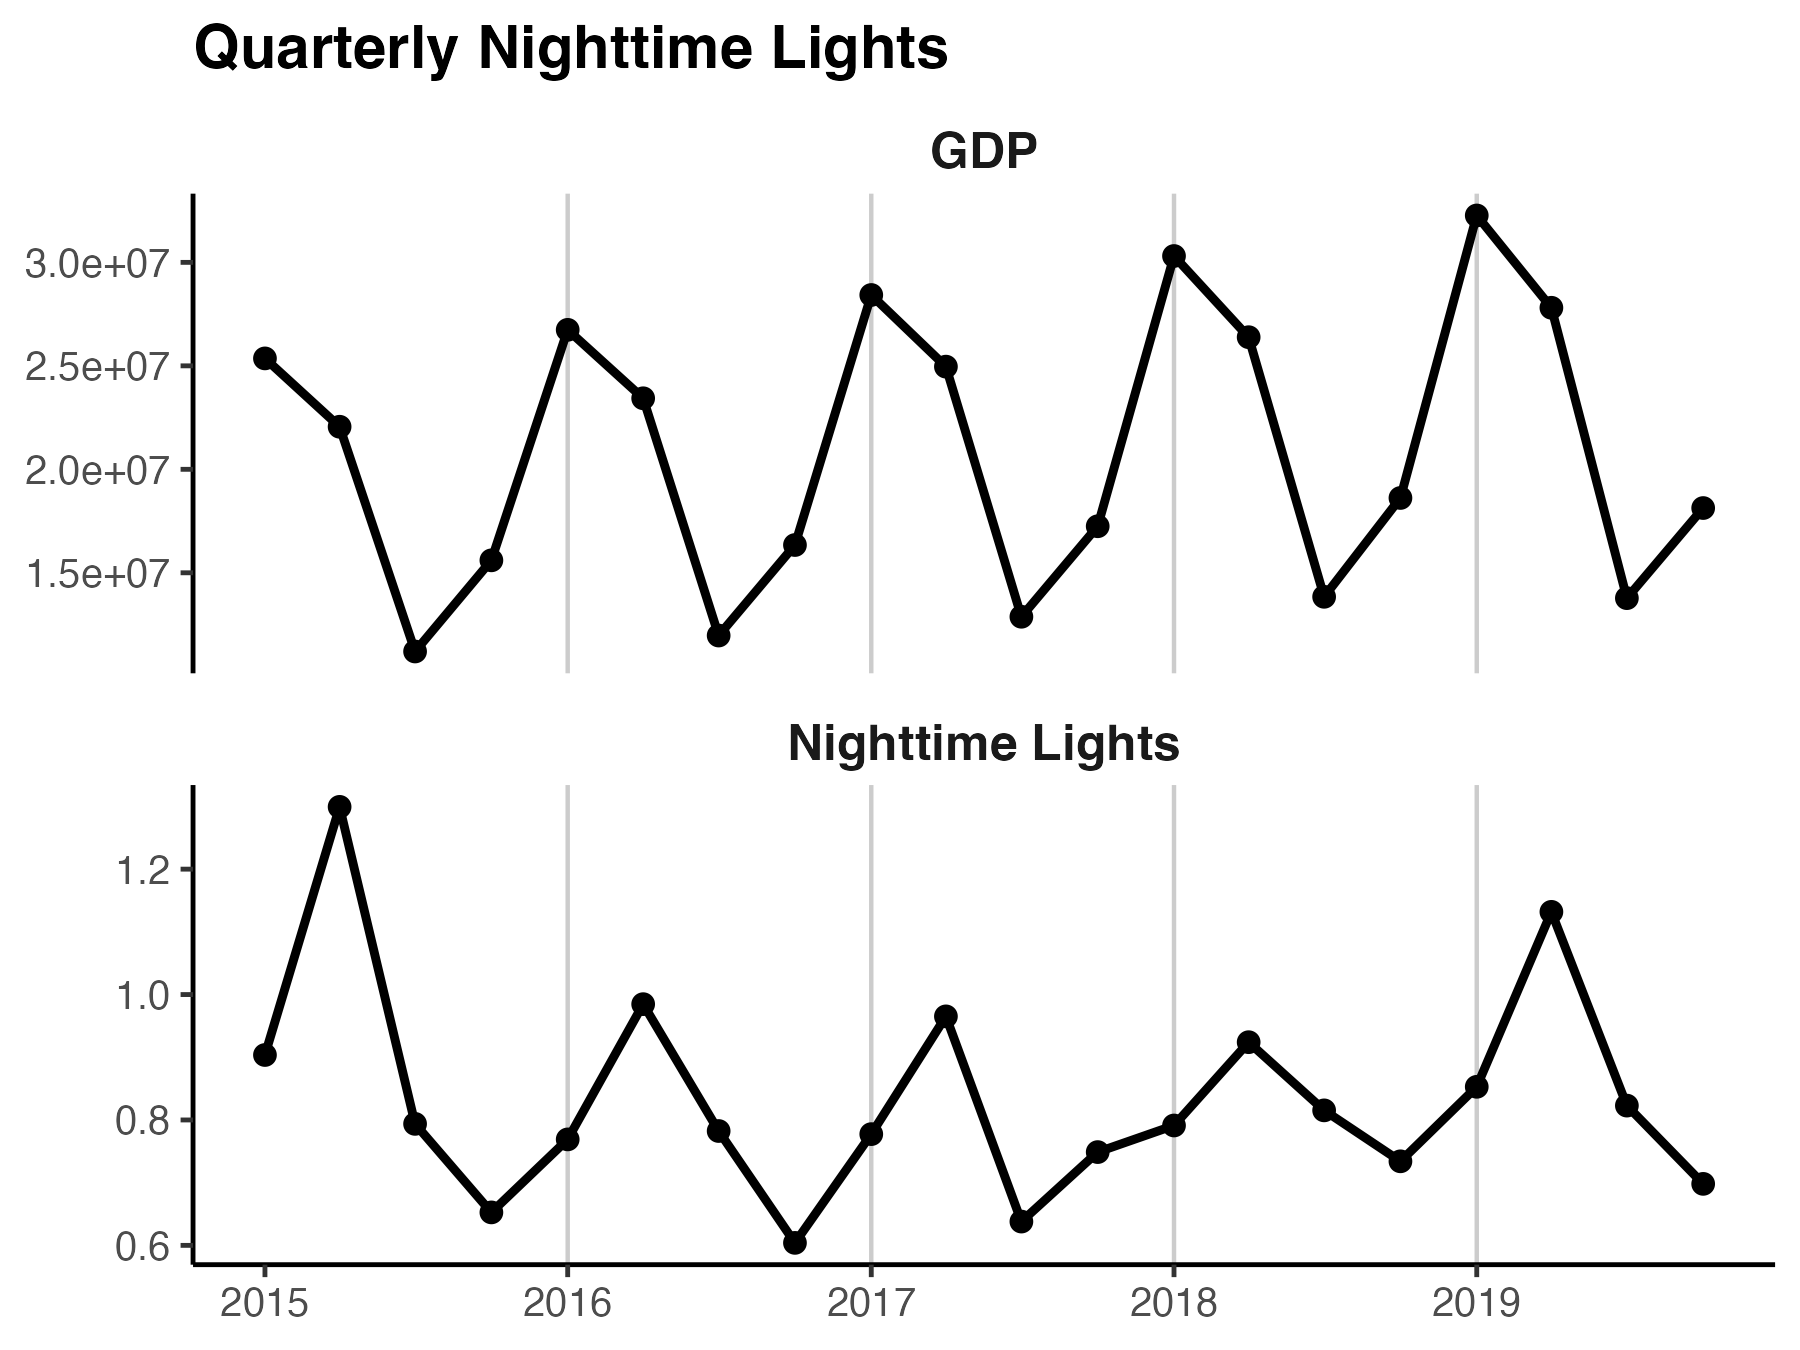
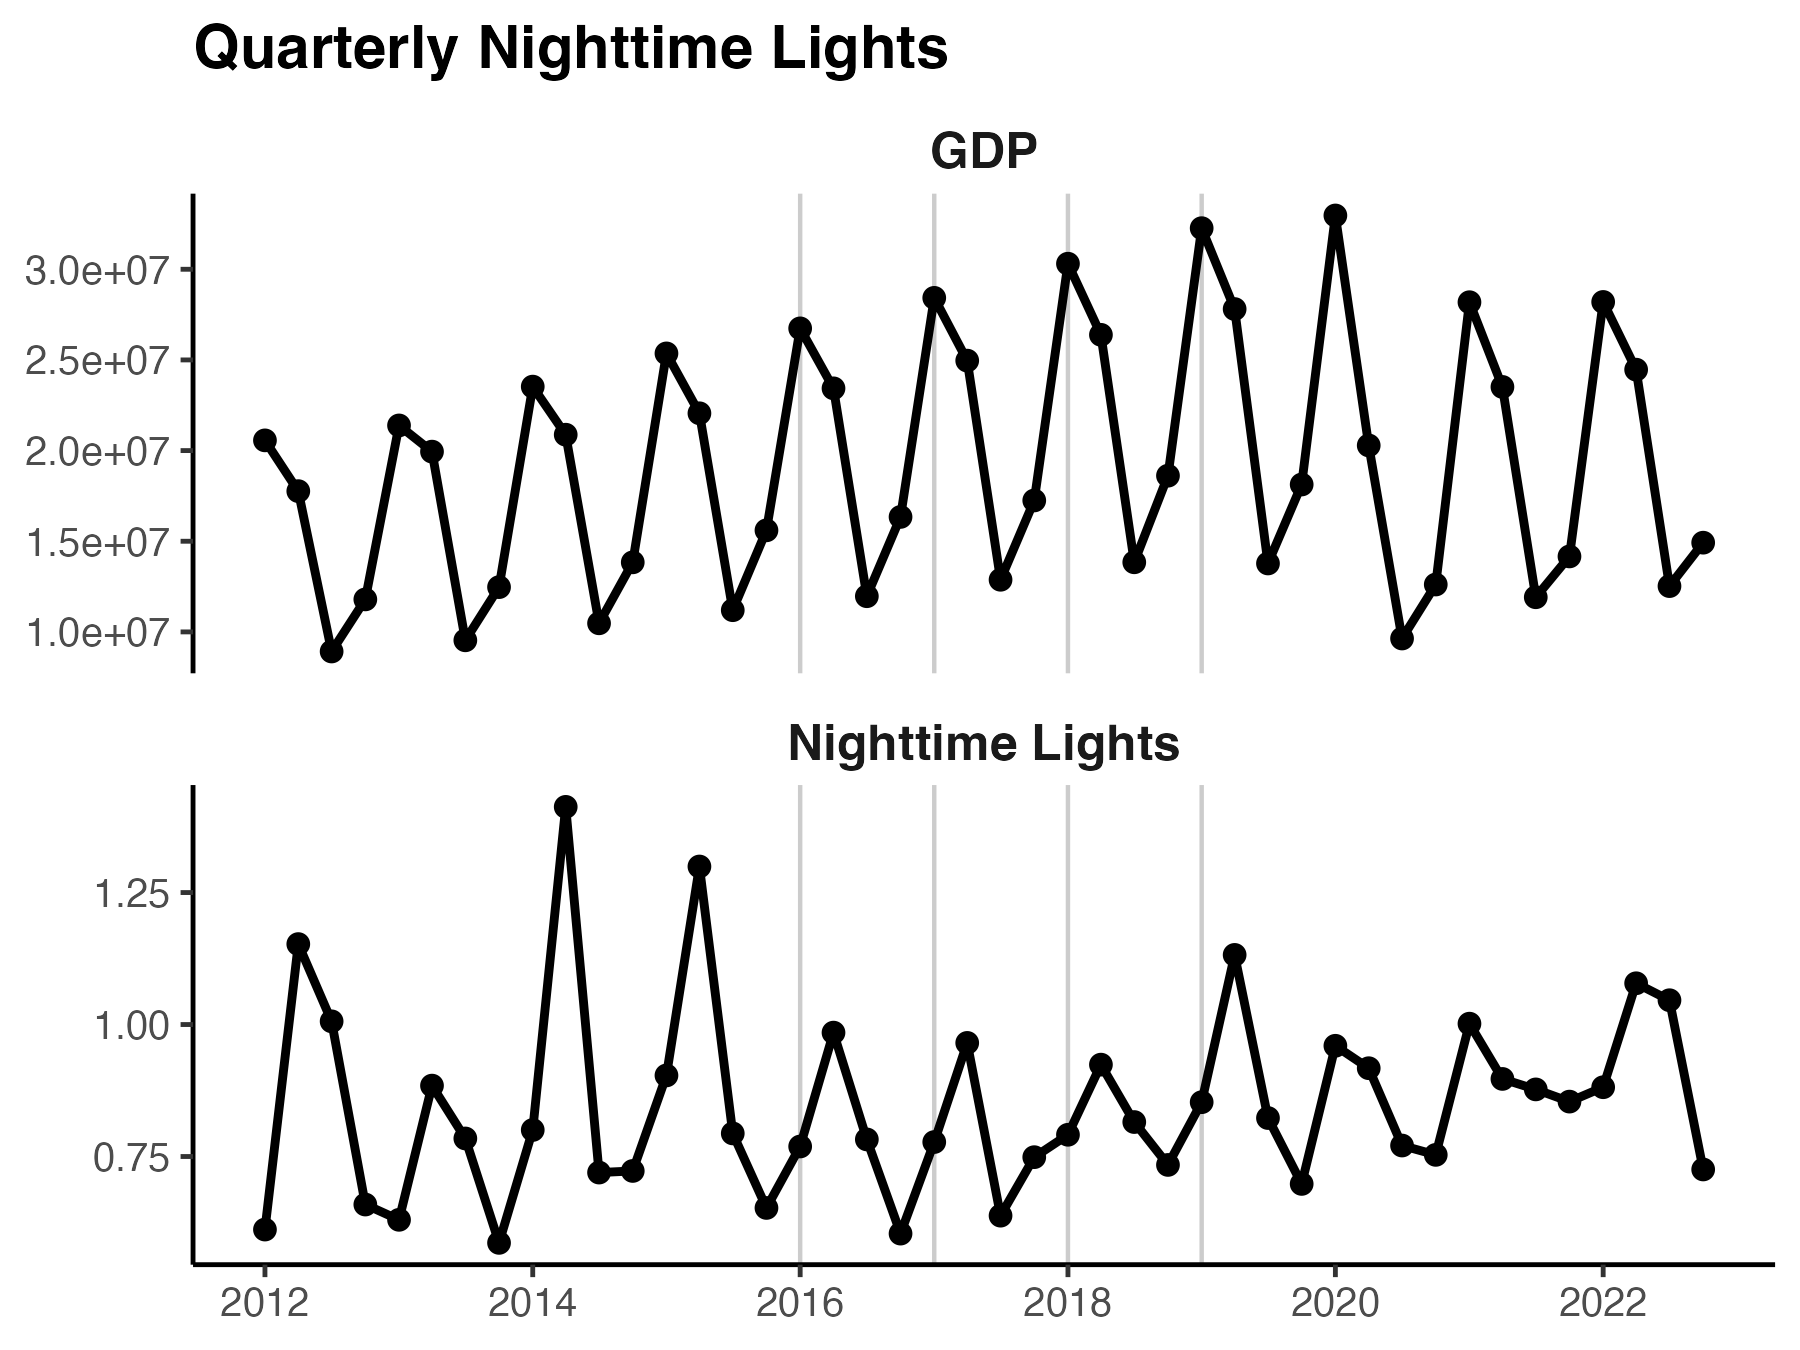
up

diff --git a/reports/figures/reg_gdp_ntl_quarterly.html b/reports/figures/reg_gdp_ntl_quarterly.html
@@ -1,19 +1,24 @@
 
-<table style="text-align:center"><tr><td colspan="3" style="border-bottom: 1px solid black"></td></tr><tr><td style="text-align:left"></td><td colspan="2"><em>Dependent variable:</em></td></tr>
-<tr><td></td><td colspan="2" style="border-bottom: 1px solid black"></td></tr>
-<tr><td style="text-align:left"></td><td>GDP (Billions)</td><td>log(GDP)</td></tr>
-<tr><td style="text-align:left"></td><td>(1)</td><td>(2)</td></tr>
-<tr><td colspan="3" style="border-bottom: 1px solid black"></td></tr><tr><td style="text-align:left">NTL</td><td>0.017<sup>*</sup></td><td></td></tr>
-<tr><td style="text-align:left"></td><td>(0.009)</td><td></td></tr>
-<tr><td style="text-align:left"></td><td></td><td></td></tr>
-<tr><td style="text-align:left">log(NTL)</td><td></td><td>0.822<sup>**</sup></td></tr>
-<tr><td style="text-align:left"></td><td></td><td>(0.375)</td></tr>
-<tr><td style="text-align:left"></td><td></td><td></td></tr>
-<tr><td style="text-align:left">Constant</td><td>0.007</td><td>16.965<sup>***</sup></td></tr>
-<tr><td style="text-align:left"></td><td>(0.007)</td><td>(0.101)</td></tr>
-<tr><td style="text-align:left"></td><td></td><td></td></tr>
-<tr><td colspan="3" style="border-bottom: 1px solid black"></td></tr><tr><td style="text-align:left">Observations</td><td>20</td><td>20</td></tr>
-<tr><td style="text-align:left">R<sup>2</sup></td><td>0.176</td><td>0.211</td></tr>
-<tr><td style="text-align:left">Adjusted R<sup>2</sup></td><td>0.130</td><td>0.167</td></tr>
-<tr><td colspan="3" style="border-bottom: 1px solid black"></td></tr><tr><td style="text-align:left"><em>Note:</em></td><td colspan="2" style="text-align:right"><sup>*</sup>p<0.1; <sup>**</sup>p<0.05; <sup>***</sup>p<0.01</td></tr>
+<table style="text-align:center"><tr><td colspan="5" style="border-bottom: 1px solid black"></td></tr><tr><td style="text-align:left"></td><td colspan="4"><em>Dependent variable:</em></td></tr>
+<tr><td></td><td colspan="4" style="border-bottom: 1px solid black"></td></tr>
+<tr><td style="text-align:left"></td><td>GDP (Billions)</td><td>log(GDP)</td><td>gdp_div</td><td>log(gdp_div)</td></tr>
+<tr><td style="text-align:left"></td><td>(1)</td><td>(2)</td><td>(3)</td><td>(4)</td></tr>
+<tr><td colspan="5" style="border-bottom: 1px solid black"></td></tr><tr><td style="text-align:left">NTL</td><td>11.871<sup>*</sup></td><td></td><td>12.351<sup>**</sup></td><td></td></tr>
+<tr><td style="text-align:left"></td><td>(5.918)</td><td></td><td>(5.728)</td><td></td></tr>
+<tr><td style="text-align:left"></td><td></td><td></td><td></td><td></td></tr>
+<tr><td style="text-align:left">log(NTL)</td><td></td><td>0.604<sup>**</sup></td><td></td><td>0.622<sup>**</sup></td></tr>
+<tr><td style="text-align:left"></td><td></td><td>(0.291)</td><td></td><td>(0.280)</td></tr>
+<tr><td style="text-align:left"></td><td></td><td></td><td></td><td></td></tr>
+<tr><td style="text-align:left">2020 Onwards</td><td></td><td></td><td>-0.315</td><td>-0.024</td></tr>
+<tr><td style="text-align:left"></td><td></td><td></td><td>(2.637)</td><td>(0.143)</td></tr>
+<tr><td style="text-align:left"></td><td></td><td></td><td></td><td></td></tr>
+<tr><td style="text-align:left">Constant</td><td>9.086<sup>*</sup></td><td>3.000<sup>***</sup></td><td>8.686<sup>*</sup></td><td>3.004<sup>***</sup></td></tr>
+<tr><td style="text-align:left"></td><td>(5.062)</td><td>(0.084)</td><td>(4.908)</td><td>(0.082)</td></tr>
+<tr><td style="text-align:left"></td><td></td><td></td><td></td><td></td></tr>
+<tr><td colspan="5" style="border-bottom: 1px solid black"></td></tr><tr><td style="text-align:left">Start Year</td><td>2012</td><td>2012</td><td>2012</td><td>2012</td></tr>
+<tr><td style="text-align:left">End Year</td><td>2020</td><td>2020</td><td>2022</td><td>2022</td></tr>
+<tr><td style="text-align:left">Observations</td><td>36</td><td>36</td><td>44</td><td>44</td></tr>
+<tr><td style="text-align:left">R<sup>2</sup></td><td>0.106</td><td>0.113</td><td>0.103</td><td>0.110</td></tr>
+<tr><td style="text-align:left">Adjusted R<sup>2</sup></td><td>0.080</td><td>0.087</td><td>0.060</td><td>0.066</td></tr>
+<tr><td colspan="5" style="border-bottom: 1px solid black"></td></tr><tr><td style="text-align:left"><em>Note:</em></td><td colspan="4" style="text-align:right"><sup>*</sup>p<0.1; <sup>**</sup>p<0.05; <sup>***</sup>p<0.01</td></tr>
 </table>

diff --git a/notebooks/nighttime-lights/README.md b/notebooks/nighttime-lights/README.md
@@ -317,23 +317,28 @@ Trends in GDP and Nighttime Lights: Percent Change since 2012 (Logged)
 
 Below shows regressions results, regressing GDP on average nighttime lights.
 
-<table style="text-align:center"><tr><td colspan="3" style="border-bottom: 1px solid black"></td></tr><tr><td style="text-align:left"></td><td colspan="2"><em>Dependent variable:</em></td></tr>
-<tr><td></td><td colspan="2" style="border-bottom: 1px solid black"></td></tr>
-<tr><td style="text-align:left"></td><td>GDP (Billions)</td><td>log(GDP)</td></tr>
-<tr><td style="text-align:left"></td><td>(1)</td><td>(2)</td></tr>
-<tr><td colspan="3" style="border-bottom: 1px solid black"></td></tr><tr><td style="text-align:left">NTL</td><td>0.017<sup>*</sup></td><td></td></tr>
-<tr><td style="text-align:left"></td><td>(0.009)</td><td></td></tr>
-<tr><td style="text-align:left"></td><td></td><td></td></tr>
-<tr><td style="text-align:left">log(NTL)</td><td></td><td>0.822<sup>**</sup></td></tr>
-<tr><td style="text-align:left"></td><td></td><td>(0.375)</td></tr>
-<tr><td style="text-align:left"></td><td></td><td></td></tr>
-<tr><td style="text-align:left">Constant</td><td>0.007</td><td>16.965<sup>***</sup></td></tr>
-<tr><td style="text-align:left"></td><td>(0.007)</td><td>(0.101)</td></tr>
-<tr><td style="text-align:left"></td><td></td><td></td></tr>
-<tr><td colspan="3" style="border-bottom: 1px solid black"></td></tr><tr><td style="text-align:left">Observations</td><td>20</td><td>20</td></tr>
-<tr><td style="text-align:left">R<sup>2</sup></td><td>0.176</td><td>0.211</td></tr>
-<tr><td style="text-align:left">Adjusted R<sup>2</sup></td><td>0.130</td><td>0.167</td></tr>
-<tr><td colspan="3" style="border-bottom: 1px solid black"></td></tr><tr><td style="text-align:left"><em>Note:</em></td><td colspan="2" style="text-align:right"><sup>*</sup>p<0.1; <sup>**</sup>p<0.05; <sup>***</sup>p<0.01</td></tr>
+<table style="text-align:center"><tr><td colspan="5" style="border-bottom: 1px solid black"></td></tr><tr><td style="text-align:left"></td><td colspan="4"><em>Dependent variable:</em></td></tr>
+<tr><td></td><td colspan="4" style="border-bottom: 1px solid black"></td></tr>
+<tr><td style="text-align:left"></td><td>GDP (Billions)</td><td>log(GDP)</td><td>gdp_div</td><td>log(gdp_div)</td></tr>
+<tr><td style="text-align:left"></td><td>(1)</td><td>(2)</td><td>(3)</td><td>(4)</td></tr>
+<tr><td colspan="5" style="border-bottom: 1px solid black"></td></tr><tr><td style="text-align:left">NTL</td><td>11.871<sup>*</sup></td><td></td><td>12.351<sup>**</sup></td><td></td></tr>
+<tr><td style="text-align:left"></td><td>(5.918)</td><td></td><td>(5.728)</td><td></td></tr>
+<tr><td style="text-align:left"></td><td></td><td></td><td></td><td></td></tr>
+<tr><td style="text-align:left">log(NTL)</td><td></td><td>0.604<sup>**</sup></td><td></td><td>0.622<sup>**</sup></td></tr>
+<tr><td style="text-align:left"></td><td></td><td>(0.291)</td><td></td><td>(0.280)</td></tr>
+<tr><td style="text-align:left"></td><td></td><td></td><td></td><td></td></tr>
+<tr><td style="text-align:left">2020 Onwards</td><td></td><td></td><td>-0.315</td><td>-0.024</td></tr>
+<tr><td style="text-align:left"></td><td></td><td></td><td>(2.637)</td><td>(0.143)</td></tr>
+<tr><td style="text-align:left"></td><td></td><td></td><td></td><td></td></tr>
+<tr><td style="text-align:left">Constant</td><td>9.086<sup>*</sup></td><td>3.000<sup>***</sup></td><td>8.686<sup>*</sup></td><td>3.004<sup>***</sup></td></tr>
+<tr><td style="text-align:left"></td><td>(5.062)</td><td>(0.084)</td><td>(4.908)</td><td>(0.082)</td></tr>
+<tr><td style="text-align:left"></td><td></td><td></td><td></td><td></td></tr>
+<tr><td colspan="5" style="border-bottom: 1px solid black"></td></tr><tr><td style="text-align:left">Start Year</td><td>2012</td><td>2012</td><td>2012</td><td>2012</td></tr>
+<tr><td style="text-align:left">End Year</td><td>2020</td><td>2020</td><td>2022</td><td>2022</td></tr>
+<tr><td style="text-align:left">Observations</td><td>36</td><td>36</td><td>44</td><td>44</td></tr>
+<tr><td style="text-align:left">R<sup>2</sup></td><td>0.106</td><td>0.113</td><td>0.103</td><td>0.110</td></tr>
+<tr><td style="text-align:left">Adjusted R<sup>2</sup></td><td>0.080</td><td>0.087</td><td>0.060</td><td>0.066</td></tr>
+<tr><td colspan="5" style="border-bottom: 1px solid black"></td></tr><tr><td style="text-align:left"><em>Note:</em></td><td colspan="4" style="text-align:right"><sup>*</sup>p<0.1; <sup>**</sup>p<0.05; <sup>***</sup>p<0.01</td></tr>
 </table>
 
 ## Limitations
